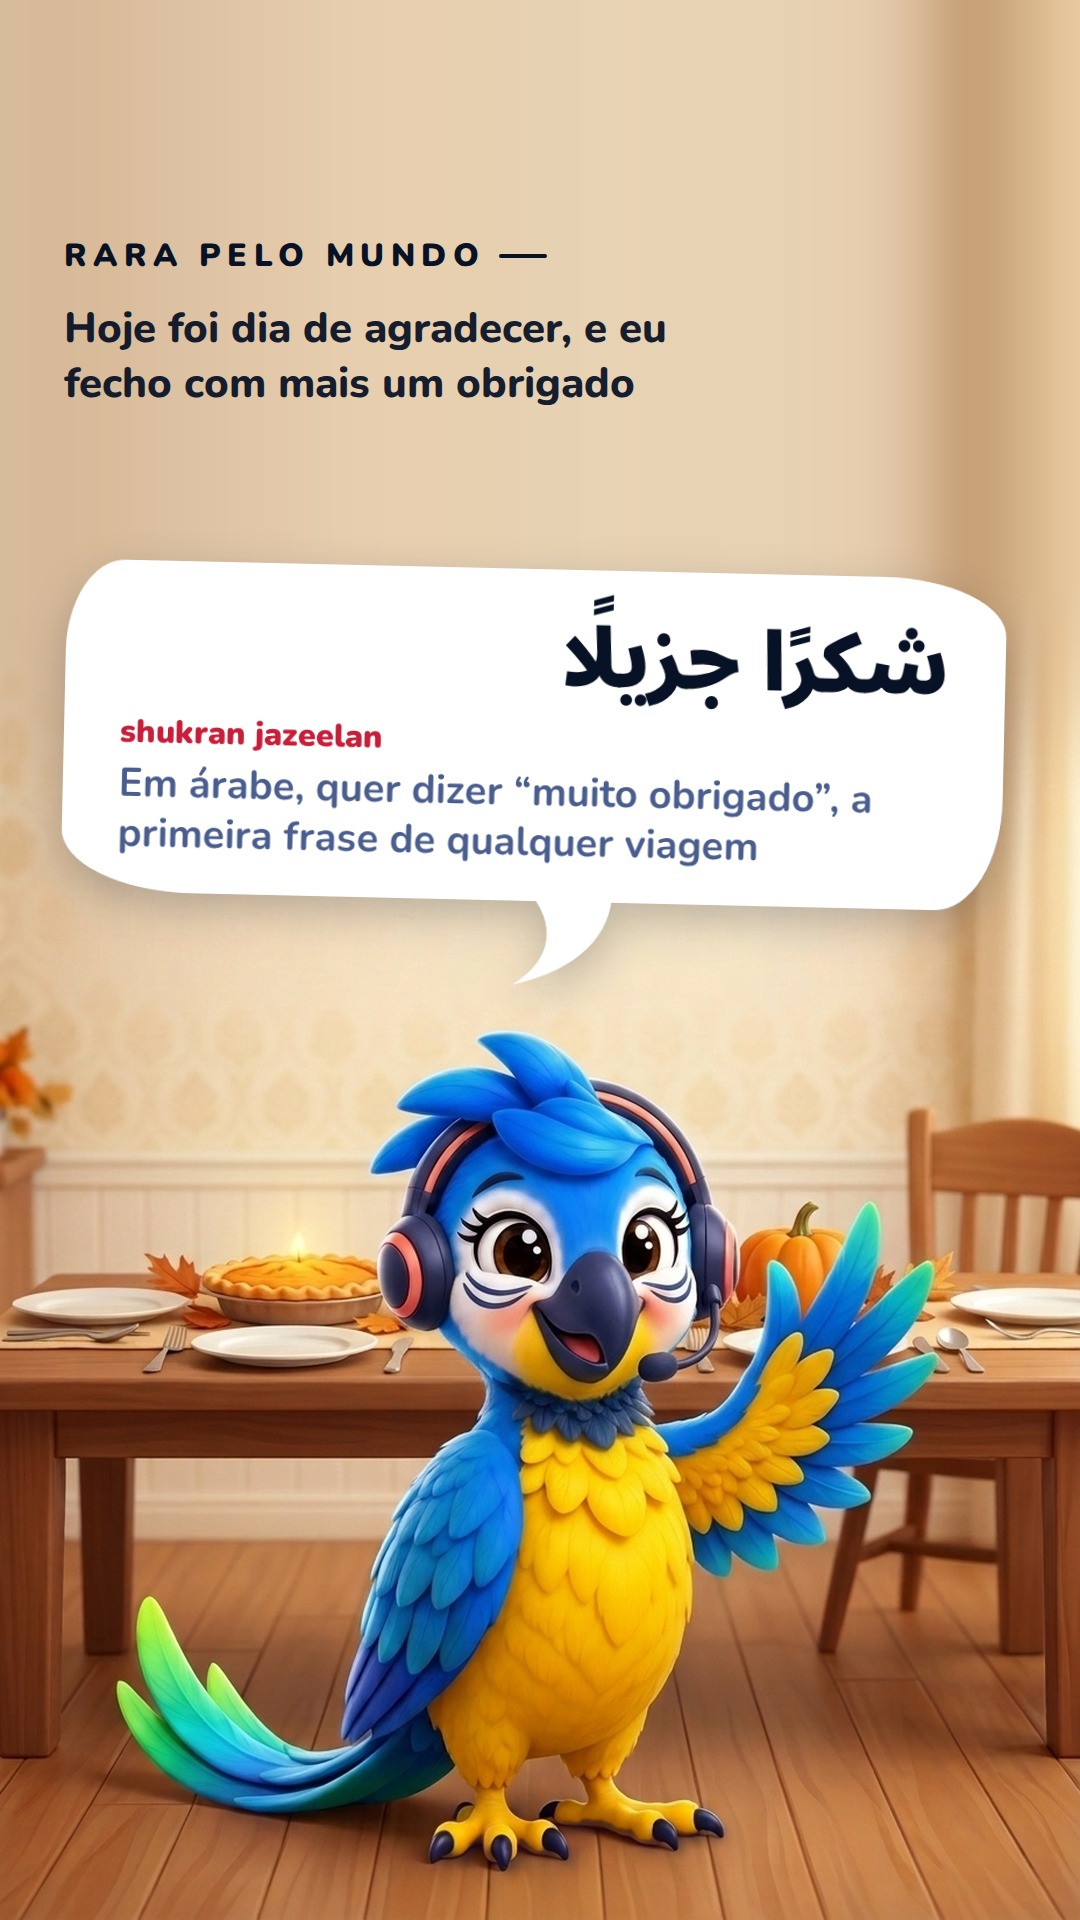
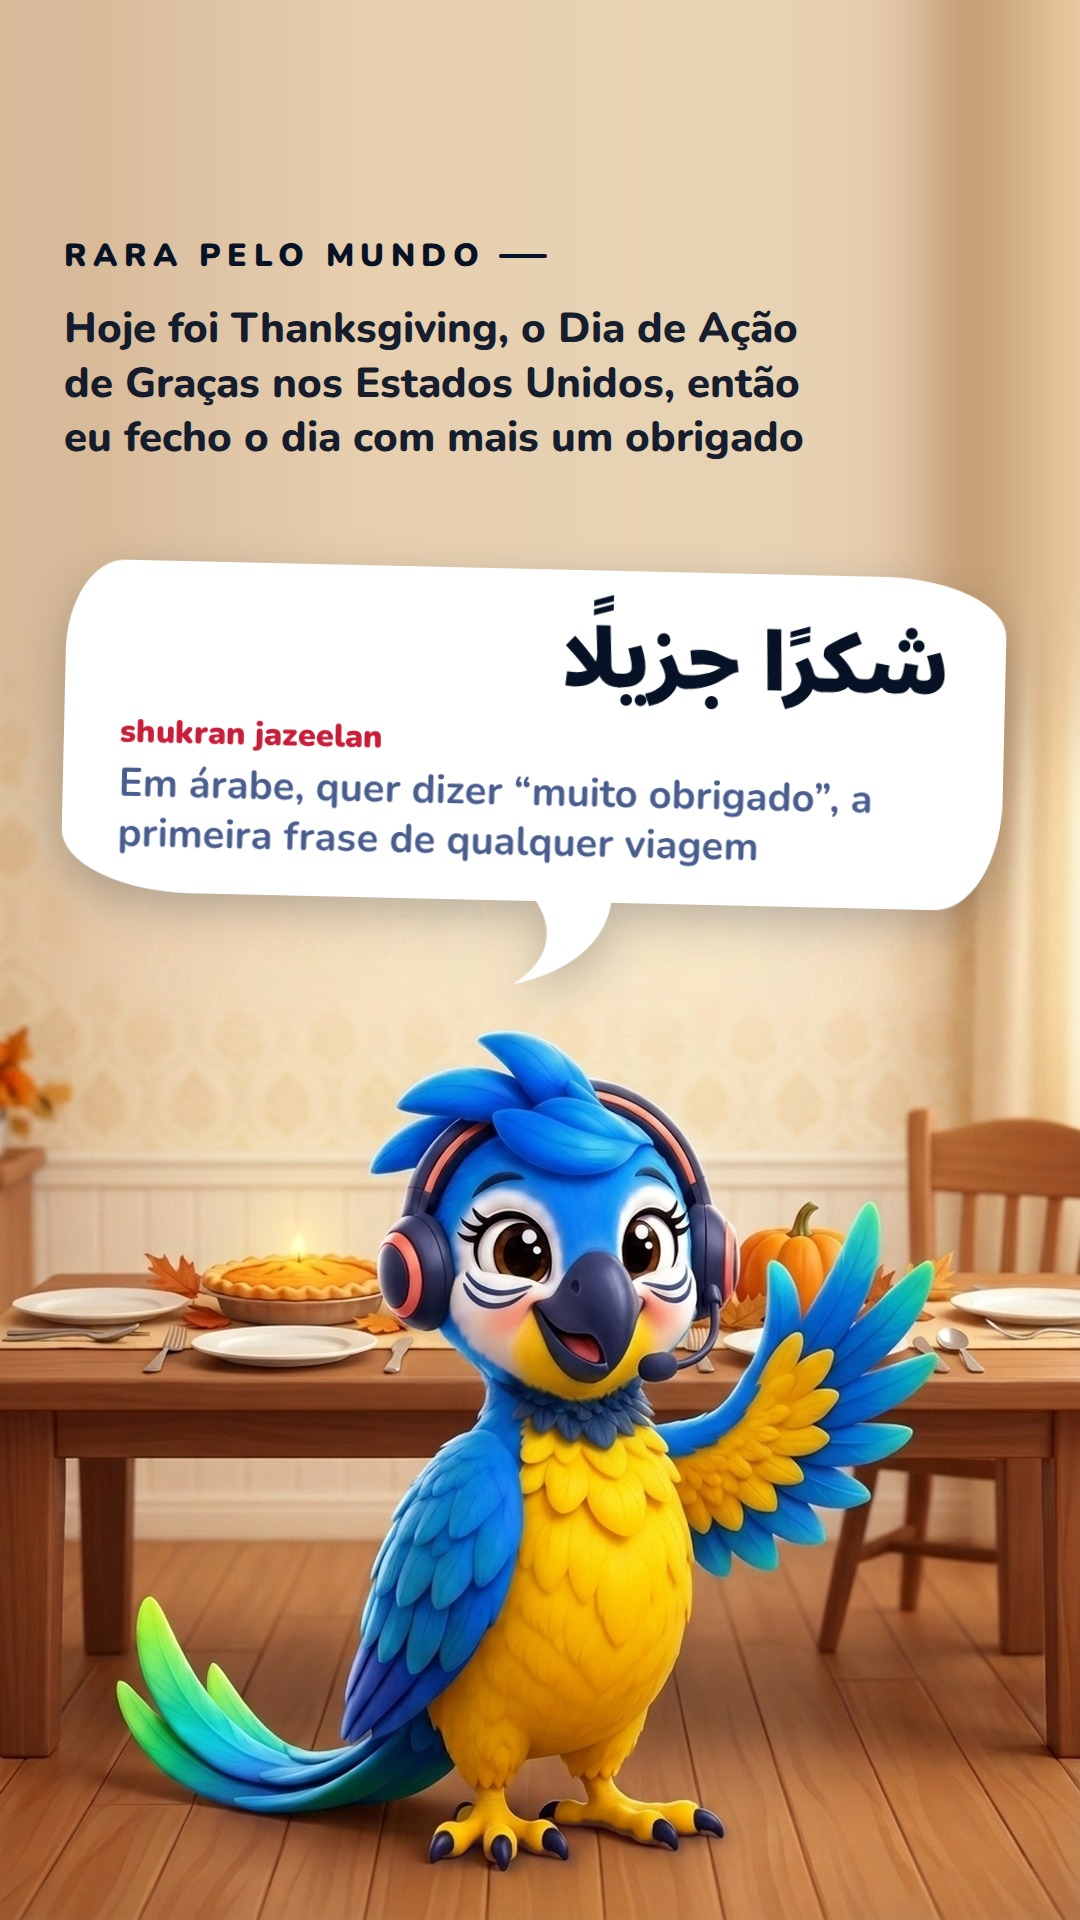
fix(conteudo): contexto explícito do Thanksgiving e abertura da segunda sem 'só pra mim'

Changed region(s): [[0.0611, 0.1562, 0.7333, 0.25]]

diff --git a/semana_23_29_feed/html/story-221.html b/semana_23_29_feed/html/story-221.html
@@ -41,4 +41,4 @@
 .ds-caption{position:absolute;left:64px;bottom:58px;max-width:800px;z-index:8;font-weight:900;font-size:60px;line-height:1.2;color:#fff;text-shadow:0 2px 12px rgba(0,0,0,.35);text-wrap:balance}
 .ds-caption b{color:#FFC83D}
 .gap{height:var(--g,24px)}
-</style></head><body><div id="post"><img class="bg" src="file:///home/rodrigo/.openclaw/workspace/arara_social/semana_23_29_feed/gen/st221_bg.png"><div class="zone" data-box="zone"><div class="ds-label">Rara pelo mundo</div><div class="ds-sub" data-box="sub">Hoje foi dia de agradecer, e eu fecho com mais um obrigado</div></div><div class="ds-fala r1" data-box="fala" data-hx="498" data-cy="1037" data-min="360" style="position:absolute;left:64px;width:952px"><div class="main" style=""><span dir="rtl" lang="ar" style="font-family:NAR;font-size:1.3em;line-height:1.5;display:block">شكرًا جزيلًا</span><span style="font-size:.52em;color:#C81E3A;display:block;margin-top:2px">shukran jazeelan</span></div><div class="apoio">Em árabe, quer dizer “muito obrigado”, a primeira frase de qualquer viagem</div><svg class="tail" viewBox="0 0 112 100"><path d="M8 0 C 8 44 40 80 106 96 C 66 70 62 34 94 0 Z" fill="#fff"/></svg></div></div><script>document.fonts.ready.then(()=>{document.querySelectorAll('.ds-fala').forEach(b=>{const hx=+b.dataset.hx,cy=+b.dataset.cy,mn=+b.dataset.min;const L=b.offsetLeft;const kids=[...b.querySelectorAll('.main,.apoio,.main *')].map(e=>[e,parseFloat(getComputedStyle(e).fontSize)]);let k=1;function fit(){kids.forEach(([e,f])=>e.style.fontSize=(f*k)+'px');b.style.top=((cy-136)-b.offsetHeight)+'px'}fit();while(b.offsetTop<mn&&k>0.8){k-=0.04;fit()}const t=b.querySelector('.tail');const flip=b.classList.contains('r1');t.style.left=Math.max(30,Math.min(b.offsetWidth-150,flip?(hx+14-L):(hx-126-L)))+'px';if(flip)t.style.transform='scaleX(-1)'})})</script></body></html>
+</style></head><body><div id="post"><img class="bg" src="file:///home/rodrigo/.openclaw/workspace/arara_social/semana_23_29_feed/gen/st221_bg.png"><div class="zone" data-box="zone"><div class="ds-label">Rara pelo mundo</div><div class="ds-sub" data-box="sub">Hoje foi Thanksgiving, o Dia de Ação de Graças nos Estados Unidos, então eu fecho o dia com mais um obrigado</div></div><div class="ds-fala r1" data-box="fala" data-hx="498" data-cy="1037" data-min="360" style="position:absolute;left:64px;width:952px"><div class="main" style=""><span dir="rtl" lang="ar" style="font-family:NAR;font-size:1.3em;line-height:1.5;display:block">شكرًا جزيلًا</span><span style="font-size:.52em;color:#C81E3A;display:block;margin-top:2px">shukran jazeelan</span></div><div class="apoio">Em árabe, quer dizer “muito obrigado”, a primeira frase de qualquer viagem</div><svg class="tail" viewBox="0 0 112 100"><path d="M8 0 C 8 44 40 80 106 96 C 66 70 62 34 94 0 Z" fill="#fff"/></svg></div></div><script>document.fonts.ready.then(()=>{document.querySelectorAll('.ds-fala').forEach(b=>{const hx=+b.dataset.hx,cy=+b.dataset.cy,mn=+b.dataset.min;const L=b.offsetLeft;const kids=[...b.querySelectorAll('.main,.apoio,.main *')].map(e=>[e,parseFloat(getComputedStyle(e).fontSize)]);let k=1;function fit(){kids.forEach(([e,f])=>e.style.fontSize=(f*k)+'px');b.style.top=((cy-136)-b.offsetHeight)+'px'}fit();while(b.offsetTop<mn&&k>0.8){k-=0.04;fit()}const t=b.querySelector('.tail');const flip=b.classList.contains('r1');t.style.left=Math.max(30,Math.min(b.offsetWidth-150,flip?(hx+14-L):(hx-126-L)))+'px';if(flip)t.style.transform='scaleX(-1)'})})</script></body></html>

diff --git a/semana_23_29_feed/html/story-219.html b/semana_23_29_feed/html/story-219.html
@@ -41,4 +41,4 @@
 .ds-caption{position:absolute;left:64px;bottom:58px;max-width:800px;z-index:8;font-weight:900;font-size:60px;line-height:1.2;color:#fff;text-shadow:0 2px 12px rgba(0,0,0,.35);text-wrap:balance}
 .ds-caption b{color:#FFC83D}
 .gap{height:var(--g,24px)}
-</style></head><body><div id="post"><img class="bg" src="file:///home/rodrigo/.openclaw/workspace/arara_social/semana_23_29_feed/gen/st219_bg.png"><div class="zone" data-box="zone"><div class="ds-label">Bom dia da Rara</div><div class="ds-sub" data-box="sub">Bom dia! Hoje a gente agradece quem recebe</div></div><div class="ds-fala r0" data-box="fala" data-hx="498" data-cy="1037" data-min="360" style="position:absolute;left:64px;width:952px"><div class="main" style=""><span style="font-family:NSC,Nunito;font-size:1.25em;line-height:1.3;display:block">谢谢你的款待</span><span style="font-size:.52em;color:#C81E3A;display:block;margin-top:4px">xièxie nǐ de kuǎndài</span></div><div class="apoio">Em mandarim, quer dizer “obrigado pela hospitalidade”</div><svg class="tail" viewBox="0 0 112 100"><path d="M8 0 C 8 44 40 80 106 96 C 66 70 62 34 94 0 Z" fill="#fff"/></svg></div></div><script>document.fonts.ready.then(()=>{document.querySelectorAll('.ds-fala').forEach(b=>{const hx=+b.dataset.hx,cy=+b.dataset.cy,mn=+b.dataset.min;const L=b.offsetLeft;const kids=[...b.querySelectorAll('.main,.apoio,.main *')].map(e=>[e,parseFloat(getComputedStyle(e).fontSize)]);let k=1;function fit(){kids.forEach(([e,f])=>e.style.fontSize=(f*k)+'px');b.style.top=((cy-136)-b.offsetHeight)+'px'}fit();while(b.offsetTop<mn&&k>0.8){k-=0.04;fit()}const t=b.querySelector('.tail');const flip=b.classList.contains('r1');t.style.left=Math.max(30,Math.min(b.offsetWidth-150,flip?(hx+14-L):(hx-126-L)))+'px';if(flip)t.style.transform='scaleX(-1)'})})</script></body></html>
+</style></head><body><div id="post"><img class="bg" src="file:///home/rodrigo/.openclaw/workspace/arara_social/semana_23_29_feed/gen/st219_bg.png"><div class="zone" data-box="zone"><div class="ds-label">Bom dia da Rara</div><div class="ds-sub" data-box="sub">Bom dia! Hoje é Thanksgiving, o Dia de Ação de Graças nos Estados Unidos, e a gente agradece quem recebe</div></div><div class="ds-fala r0" data-box="fala" data-hx="498" data-cy="1037" data-min="360" style="position:absolute;left:64px;width:952px"><div class="main" style=""><span style="font-family:NSC,Nunito;font-size:1.25em;line-height:1.3;display:block">谢谢你的款待</span><span style="font-size:.52em;color:#C81E3A;display:block;margin-top:4px">xièxie nǐ de kuǎndài</span></div><div class="apoio">Em mandarim, quer dizer “obrigado pela hospitalidade”</div><svg class="tail" viewBox="0 0 112 100"><path d="M8 0 C 8 44 40 80 106 96 C 66 70 62 34 94 0 Z" fill="#fff"/></svg></div></div><script>document.fonts.ready.then(()=>{document.querySelectorAll('.ds-fala').forEach(b=>{const hx=+b.dataset.hx,cy=+b.dataset.cy,mn=+b.dataset.min;const L=b.offsetLeft;const kids=[...b.querySelectorAll('.main,.apoio,.main *')].map(e=>[e,parseFloat(getComputedStyle(e).fontSize)]);let k=1;function fit(){kids.forEach(([e,f])=>e.style.fontSize=(f*k)+'px');b.style.top=((cy-136)-b.offsetHeight)+'px'}fit();while(b.offsetTop<mn&&k>0.8){k-=0.04;fit()}const t=b.querySelector('.tail');const flip=b.classList.contains('r1');t.style.left=Math.max(30,Math.min(b.offsetWidth-150,flip?(hx+14-L):(hx-126-L)))+'px';if(flip)t.style.transform='scaleX(-1)'})})</script></body></html>

diff --git a/semana_23_29_feed/html/build_stories_ds.py b/semana_23_29_feed/html/build_stories_ds.py
@@ -18,10 +18,10 @@ P.append(('story-218',DARK,'st218_base.jpg',
   ds.zone(ds.status('Modo carente'))+fala('Faaala, meu campeão! 👀','Separei o cronômetro e o tapete. Bora de 3 minutinhos de conversa?',1,465,668,300)+ds.caption('Eu conto como <b>exercício</b>, prometo')))
 # 219 bom dia, mandarim
 P.append(('story-219',LIGHT,'st219_bg.png',
-  ds.zone(ds.label('Bom dia da Rara'),ds.sub('Bom dia! Hoje a gente agradece quem recebe'))+fala('<span style="font-family:NSC,Nunito;font-size:1.25em;line-height:1.3;display:block">谢谢你的款待</span><span style="font-size:.52em;color:#C81E3A;display:block;margin-top:4px">xièxie nǐ de kuǎndài</span>','Em mandarim, quer dizer “obrigado pela hospitalidade”',0,498,1037,360)))
+  ds.zone(ds.label('Bom dia da Rara'),ds.sub('Bom dia! Hoje é Thanksgiving, o Dia de Ação de Graças nos Estados Unidos, e a gente agradece quem recebe'))+fala('<span style="font-family:NSC,Nunito;font-size:1.25em;line-height:1.3;display:block">谢谢你的款待</span><span style="font-size:.52em;color:#C81E3A;display:block;margin-top:4px">xièxie nǐ de kuǎndài</span>','Em mandarim, quer dizer “obrigado pela hospitalidade”',0,498,1037,360)))
 # 221 arabe
 P.append(('story-221',LIGHT,'st221_bg.png',
-  ds.zone(ds.label('Rara pelo mundo'),ds.sub('Hoje foi dia de agradecer, e eu fecho com mais um obrigado'))+fala('<span dir="rtl" lang="ar" style="font-family:NAR;font-size:1.3em;line-height:1.5;display:block">شكرًا جزيلًا</span><span style="font-size:.52em;color:#C81E3A;display:block;margin-top:2px">shukran jazeelan</span>','Em árabe, quer dizer “muito obrigado”, a primeira frase de qualquer viagem',1,498,1037,360)))
+  ds.zone(ds.label('Rara pelo mundo'),ds.sub('Hoje foi Thanksgiving, o Dia de Ação de Graças nos Estados Unidos, então eu fecho o dia com mais um obrigado'))+fala('<span dir="rtl" lang="ar" style="font-family:NAR;font-size:1.3em;line-height:1.5;display:block">شكرًا جزيلًا</span><span style="font-size:.52em;color:#C81E3A;display:block;margin-top:2px">shukran jazeelan</span>','Em árabe, quer dizer “muito obrigado”, a primeira frase de qualquer viagem',1,498,1037,360)))
 # 220 reage
 P.append(('story-220',LIGHT,'st220_bg.png',
   ds.zone(ds.label('Rara reage'),ds.title('O meu primeiro <span class="hl">Thanksgiving</span> já está no feed',small=True),ds.sub('Confesso que exagerei na torta'))+

diff --git a/semana_23_29_diario/compor_telas.py b/semana_23_29_diario/compor_telas.py
@@ -8,7 +8,7 @@ SC = HERE.parent / 'semana1' / '_scripts'
 HX = {'seg':[540,540,540],'qua':[560,560,560],'sex':[470,480,480],'sab':[590,590,780],'dom':[570,570,570]}
 EPS = {
  'seg': dict(img=['seg_escritorio_v1.jpg', 'seg_2.jpg', 'seg_3.jpg'], sel='DIÁRIO DA RARA', topo=[613, 613, 607], titulo='Cheguei primeiro', kw='primeiro',
-   telas=[ ['Hoje eu cheguei às 7h e o escritório inteiro estava vazio, só pra mim'],
+   telas=[ ['Hoje eu cheguei às 7h e o escritório inteiro estava vazio. Estranho, né?'],
            ['Aproveitei pra treinar o japonês do trabalho em voz alta. Falei <span style="white-space:nowrap">「お疲れ様です」</span>, que quer dizer “obrigada pelo esforço”, pra uma cadeira vazia', '<small>e a cadeira, claro, não respondeu</small>'],
            ['Aí eu descobri por que ninguém veio... é feriado no Japão...'] ]),
  'qua': dict(img=['qua_call_v5.jpg', 'qua_2_v4.jpg', 'qua_3_v5.jpg'], sel='DIÁRIO DA RARA', topo=[589, 520, 589], titulo='A call que só eu ouvi', kw='só eu',

diff --git a/guia_de_estilo_arara.md b/guia_de_estilo_arara.md
@@ -120,6 +120,7 @@ Os textos de 16 a 22/11 e do plano de 23 a 29/11 saíram telegráficos ("homem d
 - **Raro:** mesma regra, em linguagem caipira ("Ooooopaaa, bão?", "uai", "sô", "ocê"), sempre com "história" e nunca "causo". Substitui o sotaque gaúcho ("bah", "tchê") das versões anteriores.
 - **Ligação entre peças:** o Diário e os stories retomam o assunto do post do dia (ex.: feriado no Japão, microfone no mudo).
 - **Mínimo de 40 px** na arte do story; se o texto não couber, reduza o texto, não a fonte.
+- **Contexto explícito:** toda peça que fala de uma data ou assunto nomeia esse assunto (ex. "Hoje é Thanksgiving, o Dia de Ação de Graças nos Estados Unidos"). Frase como "hoje foi dia de agradecer" ou "só pra mim" sem causa nem referência é proibida: se o leitor precisa adivinhar, reescreva.
 - Antes de compor, o texto passa por uma leitura em voz alta: se alguém que não conhece a Rara não entende, reescreva.
 
 
